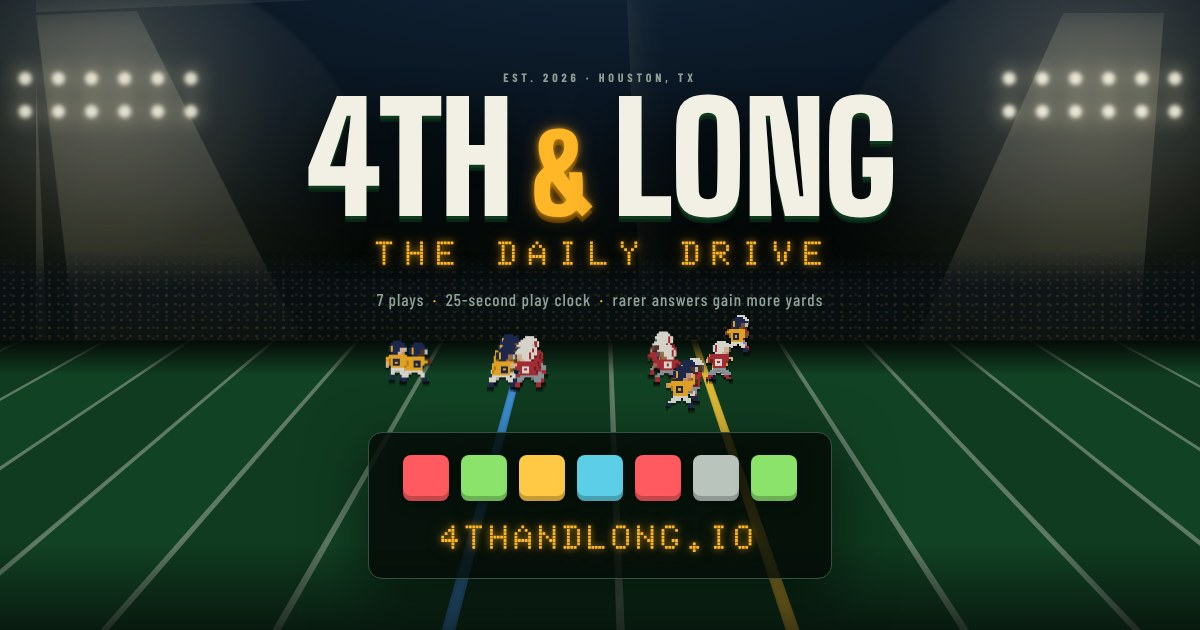
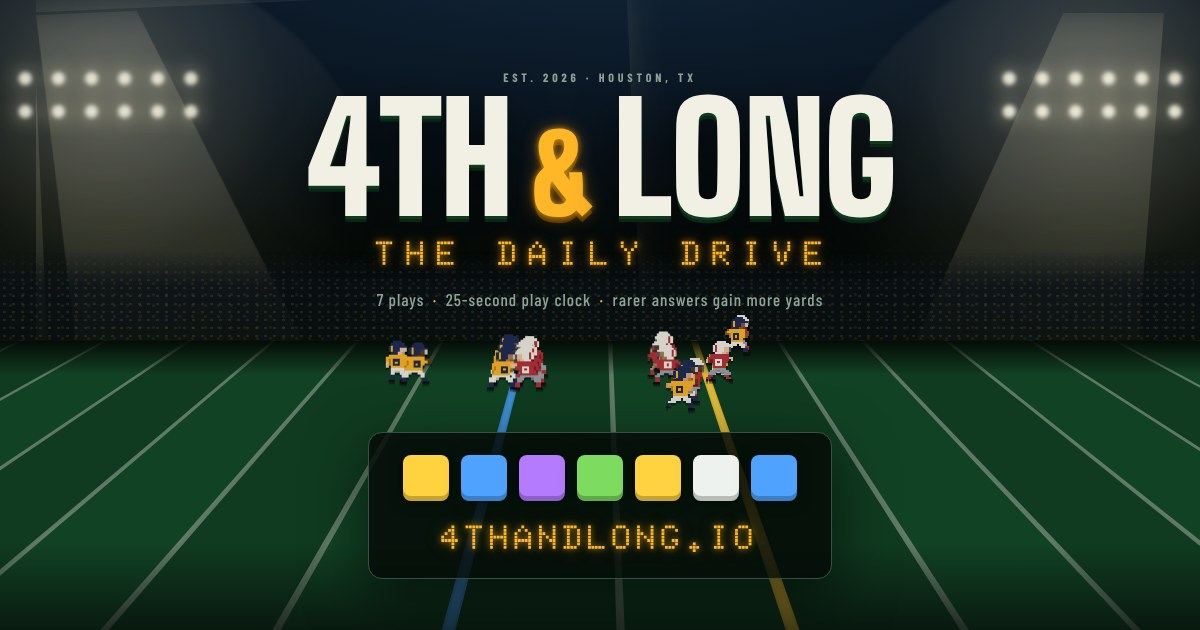
New tier colors; real crowd recording for Slant and Chunk Play
- Tiers now go white, green, blue, purple, yellow (share squares
  ⬜🟩🟦🟪🟨); touchdown confetti and the link preview image updated
- Slant plays the recording's dying-down applause tail, quiet and
  lowpassed; Chunk Play plays a short muffled slice of the roar. The
  synthesized crowd is now only a fallback while the recording loads

Claude-Session: https://claude.ai/code/session_01QRXh68XynQtWDb61vog216

Changed region(s): [[0.3083, 0.7238, 0.6783, 0.8143]]

diff --git a/src/lib/sound.ts b/src/lib/sound.ts
@@ -13,9 +13,9 @@ let muted = (() => {
 
 const listeners = new Set<(m: boolean) => void>()
 
-// A real crowd recording (public/sounds/crowd-cheer.mp3) layered into the big
-// cheers. It loads after the first sound plays; until then, or if it fails,
-// the synthesized cheer is used on its own.
+// A real crowd recording (public/sounds/crowd-cheer.mp3) used for every crowd
+// reaction to a correct answer (Slant through Hail Mary). It loads after the
+// first sound plays; until then, or if it fails, a synthesized crowd stands in.
 const CROWD_URL = `${import.meta.env.BASE_URL}sounds/crowd-cheer.mp3`
 const samples: { cheer: AudioBuffer | null; loading: Promise<void> | null } = { cheer: null, loading: null }
 
@@ -206,10 +206,13 @@ function claps(count: number, spread: number, at = 0, vol = 0.07) {
 }
 
 /**
- * Plays the recorded crowd with a quick swell and a fade-out. Each play
+ * Plays a slice of the recorded crowd with a swell and a fade-out. Each play
  * starts at a slightly different spot and speed so it never sounds identical.
+ * The 7s recording is a steady roar from about 0.5s to 4.5s, then dies down to
+ * scattered applause by 6.5s. `from` picks where to start; `lowpass` softens
+ * it so a smaller reaction sounds farther away instead of just quieter.
  */
-function crowdSample(vol: number, dur: number, at = 0): boolean {
+function crowdSample(vol: number, dur: number, at = 0, opts: { from?: [number, number]; lowpass?: number; attack?: number } = {}): boolean {
   const ac = audio()
   const buf = samples.cheer
   if (!ac || !master || !buf) return false
@@ -219,22 +222,38 @@ function crowdSample(vol: number, dur: number, at = 0): boolean {
   src.playbackRate.value = rnd(0.95, 1.05)
   const g = ac.createGain()
   g.gain.setValueAtTime(0.0001, t0)
-  g.gain.exponentialRampToValueAtTime(vol, t0 + 0.12)
+  g.gain.exponentialRampToValueAtTime(vol, t0 + (opts.attack ?? 0.12))
   g.gain.setValueAtTime(vol, t0 + dur * 0.45)
   g.gain.exponentialRampToValueAtTime(0.0001, t0 + dur)
-  src.connect(g).connect(master)
-  src.start(t0, rnd(0, 0.35))
+  let node: AudioNode = src
+  if (opts.lowpass) {
+    const f = ac.createBiquadFilter()
+    f.type = 'lowpass'
+    f.frequency.value = opts.lowpass
+    f.Q.value = 0.5
+    node = src.connect(f)
+  }
+  node.connect(g).connect(master)
+  const [a, b] = opts.from ?? [0, 0.35]
+  src.start(t0, rnd(a, b))
   src.stop(t0 + dur + 0.05)
   return true
 }
 
 /**
- * Crowd cheering. level 1 = nice play, 2 = big play, 3 = the place erupts.
- * Levels 2-3 are built on the real crowd recording, with the synth roar and
- * claps mixed underneath. Level 1 (and any cheer before the recording has
- * loaded) is fully synthesized.
+ * Crowd reaction, all built on the real recording:
+ *   0 = Slant: the recording's dying-down applause, quiet and softened (about 1.6s)
+ *   1 = Chunk Play: a short slice of the roar, a bit muffled (about 2.1s)
+ *   2 = Deep Ball / field goal: the full roar plus a light synth roar and claps
+ *   3 = Hail Mary / touchdown: the place erupts
+ * Before the recording has loaded (or if it fails), a synthesized crowd stands in.
  */
 function cheer(level: number, at = 0, long = false) {
+  if (level === 0) {
+    if (!crowdSample(0.3, 1.6, at, { from: [4.35, 4.7], lowpass: 2600, attack: 0.05 })) claps(14, 0.9, at, 0.05)
+    return
+  }
+  if (level === 1 && crowdSample(0.34, 2.1, at, { from: [1.6, 2.6], lowpass: 4500, attack: 0.08 })) return
   const dur = 1.3 + level * 0.7
   if (level >= 2 && crowdSample(level === 2 ? 0.42 : 0.72, (long ? 5.2 : 2.4 + (level - 2) * 1.2), at)) {
     crowd(0.25 + level * 0.15, dur, at)
@@ -305,17 +324,16 @@ export const sound = {
     boo(0.25)
   },
   /**
-   * Correct answer. Rarer tiers get more notes and a bigger crowd:
-   * Slant gets a smattering of applause, Chunk Play a cheer, Deep Ball a big
-   * cheer, Hail Mary the whole stadium plus an air horn.
+   * Correct answer. Rarer tiers get more notes and a bigger (real) crowd:
+   * Slant gets scattered applause, Chunk Play a cheer, Deep Ball a big cheer,
+   * Hail Mary the whole stadium plus an air horn. Checkdown is chime only.
    */
   hit(tier: number) {
     for (let i = 0; i < tier; i++) {
       tone({ freq: CHIME[i], type: 'triangle', dur: 0.32, vol: 0.14, at: i * 0.075 })
       tone({ freq: CHIME[i] * 2, type: 'sine', dur: 0.2, vol: 0.03, at: i * 0.075 })
     }
-    if (tier === 2) claps(14, 0.9, 0.1, 0.05)
-    if (tier >= 3) cheer(tier - 2, 0.05)
+    if (tier >= 2) cheer(tier - 2, tier === 2 ? 0.1 : 0.05)
     if (tier >= 5) airhorn(0.3, 0.7)
   },
   touchdown() {

diff --git a/src/engine/tiers.ts b/src/engine/tiers.ts
@@ -13,11 +13,11 @@ export interface TierMeta {
 // Points convert to yards at 10 pts = 1 yd. The drive starts at midfield,
 // so 500 points (50 yards) is a touchdown.
 export const TIERS: Record<TierId, TierMeta> = {
-  1: { id: 1, name: 'Checkdown', points: 10, yards: 1, color: '#b9c4bd', emoji: '⬜', blurb: 'Safe throw. Everybody had that one.' },
-  2: { id: 2, name: 'Slant', points: 30, yards: 3, color: '#5ccfe6', emoji: '🟦', blurb: 'Quick hitter. Moves the chains a little.' },
-  3: { id: 3, name: 'Chunk Play', points: 60, yards: 6, color: '#8be36b', emoji: '🟩', blurb: "Nice gain. Plenty of people didn't see it." },
-  4: { id: 4, name: 'Deep Ball', points: 80, yards: 8, color: '#ffc845', emoji: '🟨', blurb: 'Dropped it in the bucket. Few go there.' },
-  5: { id: 5, name: 'Hail Mary', points: 100, yards: 10, color: '#ff5a5f', emoji: '🟥', blurb: 'Prayer answered. Almost nobody had that.' },
+  1: { id: 1, name: 'Checkdown', points: 10, yards: 1, color: '#eef2ee', emoji: '⬜', blurb: 'Safe throw. Everybody had that one.' },
+  2: { id: 2, name: 'Slant', points: 30, yards: 3, color: '#7ddc5f', emoji: '🟩', blurb: 'Quick hitter. Moves the chains a little.' },
+  3: { id: 3, name: 'Chunk Play', points: 60, yards: 6, color: '#4fa3ff', emoji: '🟦', blurb: "Nice gain. Plenty of people didn't see it." },
+  4: { id: 4, name: 'Deep Ball', points: 80, yards: 8, color: '#b57bff', emoji: '🟪', blurb: 'Dropped it in the bucket. Few go there.' },
+  5: { id: 5, name: 'Hail Mary', points: 100, yards: 10, color: '#ffd23f', emoji: '🟨', blurb: 'Prayer answered. Almost nobody had that.' },
 }
 
 export const MISS = {

diff --git a/src/components/Results.tsx b/src/components/Results.tsx
@@ -115,7 +115,7 @@ export function Results({ state, prompts, label, stats, mode, celebrate = false,
         fx.flash('#ffc845', 0.35)
         fx.quake()
       })
-      const colors = ['#ffc845', '#f2efe4', '#ff5a5f', '#5ccfe6']
+      const colors = ['#ffd23f', '#f2efe4', '#b57bff', '#4fa3ff']
       ;[[0.5, 0.35], [0.2, 0.5], [0.8, 0.5], [0.35, 0.3], [0.65, 0.3]].forEach(([x, y], i) =>
         later(200 + i * 380, () => fx.confetti({ colors, count: 90, x, y, power: 1.1, spread: 85, footballs: true })))
     } else if (outcome.kind === 'fg') {

diff --git a/CLAUDE.md b/CLAUDE.md
@@ -83,13 +83,13 @@ index.html               Page title and Open Graph / link preview tags
 
 ## Scoring
 
-| Tier | Name | Points | Yards | Share emoji |
+| Tier | Name | Points | Yards | Share emoji / color |
 |---|---|---|---|---|
-| 1 | Checkdown | 10 | +1 | ⬜ |
-| 2 | Slant | 30 | +3 | 🟦 |
-| 3 | Chunk Play | 60 | +6 | 🟩 |
-| 4 | Deep Ball | 80 | +8 | 🟨 |
-| 5 | Hail Mary | 100 | +10 | 🟥 |
+| 1 | Checkdown | 10 | +1 | ⬜ white `#eef2ee` |
+| 2 | Slant | 30 | +3 | 🟩 green `#7ddc5f` |
+| 3 | Chunk Play | 60 | +6 | 🟦 blue `#4fa3ff` |
+| 4 | Deep Ball | 80 | +8 | 🟪 purple `#b57bff` |
+| 5 | Hail Mary | 100 | +10 | 🟨 yellow `#ffd23f` |
 
 10 points = 1 yard. Max score is 700. Misses: **Turnover on Downs** (3 wrong guesses) and **Delay of Game** (clock runs out), both ⬛. All of this lives in `src/engine/tiers.ts`; change it there only.
 
@@ -155,7 +155,7 @@ Domain: **4thandlong.io** (bought through Vercel, live Nov 5, 2026). The apex is
 ## Feel: sound and effects
 
 - Sounds (`src/lib/sound.ts`): button click, READY/SET/HUT cadence, whistle at the snap, ticks in the last 5 seconds, thud on a wrong answer, buzzer on delay of game, and touchdown / field goal / punt stingers on the results screen. Mute toggle sits top right.
-- Crowd: correct answers get a chime (one note per tier) plus a crowd that scales with rarity: Checkdown silent, Slant light applause, Chunk Play a cheer, Deep Ball a big cheer, Hail Mary the whole stadium plus an air horn. Turnover on Downs gets a short buzzer and boos. Chunk Play and the boos are fully synthesized (noise + vowel-filtered "voices" + claps). Deep Ball, Hail Mary, Touchdown and Field Goal are built on a real crowd recording, `public/sounds/crowd-cheer.mp3` (from Pixabay, free to use under the Pixabay Content License, no attribution needed; trimmed to 7s, normalized to -16 LUFS), with the synth roar, claps and air horn mixed underneath. The recording loads after the first sound plays; if it hasn't loaded or fails, `cheer()` falls back to the synth-only version.
+- Crowd: correct answers get a chime (one note per tier) plus a crowd that scales with rarity: Checkdown silent, Slant scattered applause, Chunk Play a cheer, Deep Ball a big cheer, Hail Mary the whole stadium plus an air horn. Turnover on Downs gets a short buzzer and boos (boos are fully synthesized: noise + vowel-filtered "voices"). Every crowd reaction from Slant up, plus Touchdown and Field Goal, uses a real crowd recording (`crowdSample()` in `cheer()`): Slant plays the recording's dying-down applause tail (from ~4.4s) quiet and lowpassed at 2.6 kHz, Chunk Play a lowpassed 2.1s slice of the roar, Deep Ball and up the full roar. The recording is `public/sounds/crowd-cheer.mp3` (from Pixabay, free to use under the Pixabay Content License, no attribution needed; trimmed to 7s, normalized to -16 LUFS); Deep Ball and up mix a light synth roar, claps and the air horn underneath. The recording loads after the first sound plays; if it hasn't loaded or fails, `cheer()` falls back to a synthesized crowd.
 - Crowd on screen (`fx.crowd`): on a cheer the dark drive overlay lifts, the stands bounce and camera flashes fire; on boos the stands dim and the flashes stop.
 - Visuals: stadium lights flicker on, haze beams, crowd camera flashes, title slam, hero button shine, score count-up, ball arc and "+N" yard pop, red vignette when the clock is under 5, confetti for Chunk Play and up (footballs on Hail Mary), screen shake on Hail Mary and Touchdown.
 - Home field (`Teams.tsx`): gold (offense, left) drives on crimson, seen from the sideline. `PLAYS` is a 4-play drive (slant, seam, out, then a post for a touchdown) starting at gold's own 45 (`START_LOS`); each play's ball is spotted where the carrier finishes (`buildDrive()`), and the camera (`cameraAt()`) follows the ball and pans to the next line of scrimmage while players are faded out. Every play uses the same blocking and QB motion; only routes (`routes`, waypoints from each receiver's spot) and the target/catch point (`target`, `catchAt`) change, and throw/catch/whistle timing is derived from them. Corners play man (`MAN`), the safety drives on the ball, linebackers drop and drift. Non-target receivers keep running past the end of their route until the whistle (`along(..., extend)`), then stand; nobody returns to a three-point stance mid-play. Each non-touchdown play ends with a tackle (`tackle()`), one continuous motion timed around contact at `tackleT`: the corner covering the target (or the safety, for the tight end) closes for `CLOSE` seconds, pushes off (`launch`), flies in laid out (`dive`), hits the carrier and drives him back `DRIVE_BACK` yards while the carrier goes `fall` → `downball`; the tackler settles into `down` lying on the carrier's back and legs (`onTop`, lifted a few sprite px) so the carrier's helmet and the ball still show. The next play is spotted where the carrier lands (`carrierPos()`). The field (stripes, yard lines, goal line, end zone, blue line of scrimmage, yellow line to gain) is drawn in SVG by `fieldSvg()` so it scrolls; on the home view it covers the static CSS turf. On the touchdown, offense switches to `cheer` (scorer `cheerball`) and jumps, defense stands, and the backdrop crowd goes wild (`fx.crowd`); then the drive restarts. Whole loop is about 41s.
